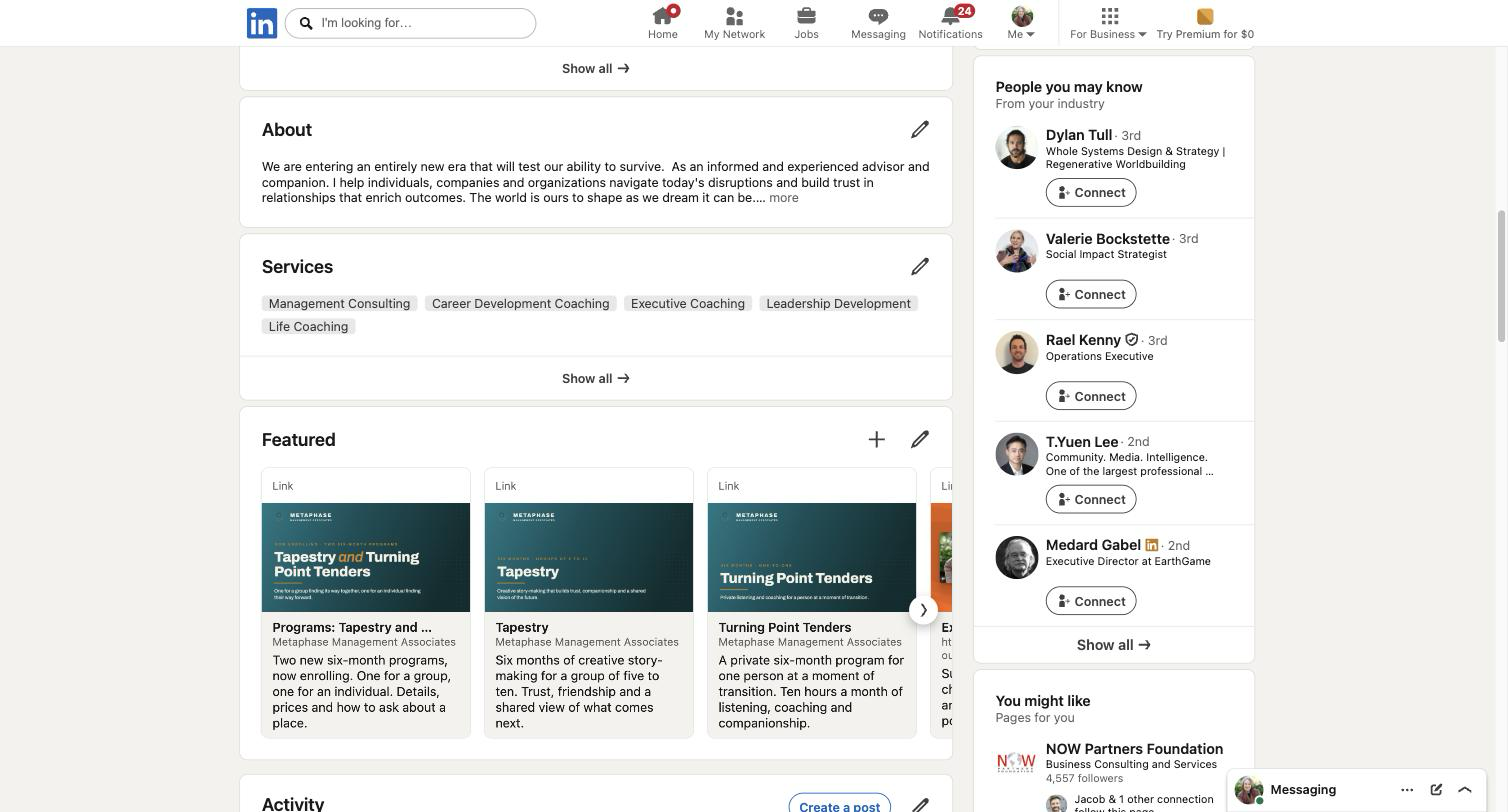
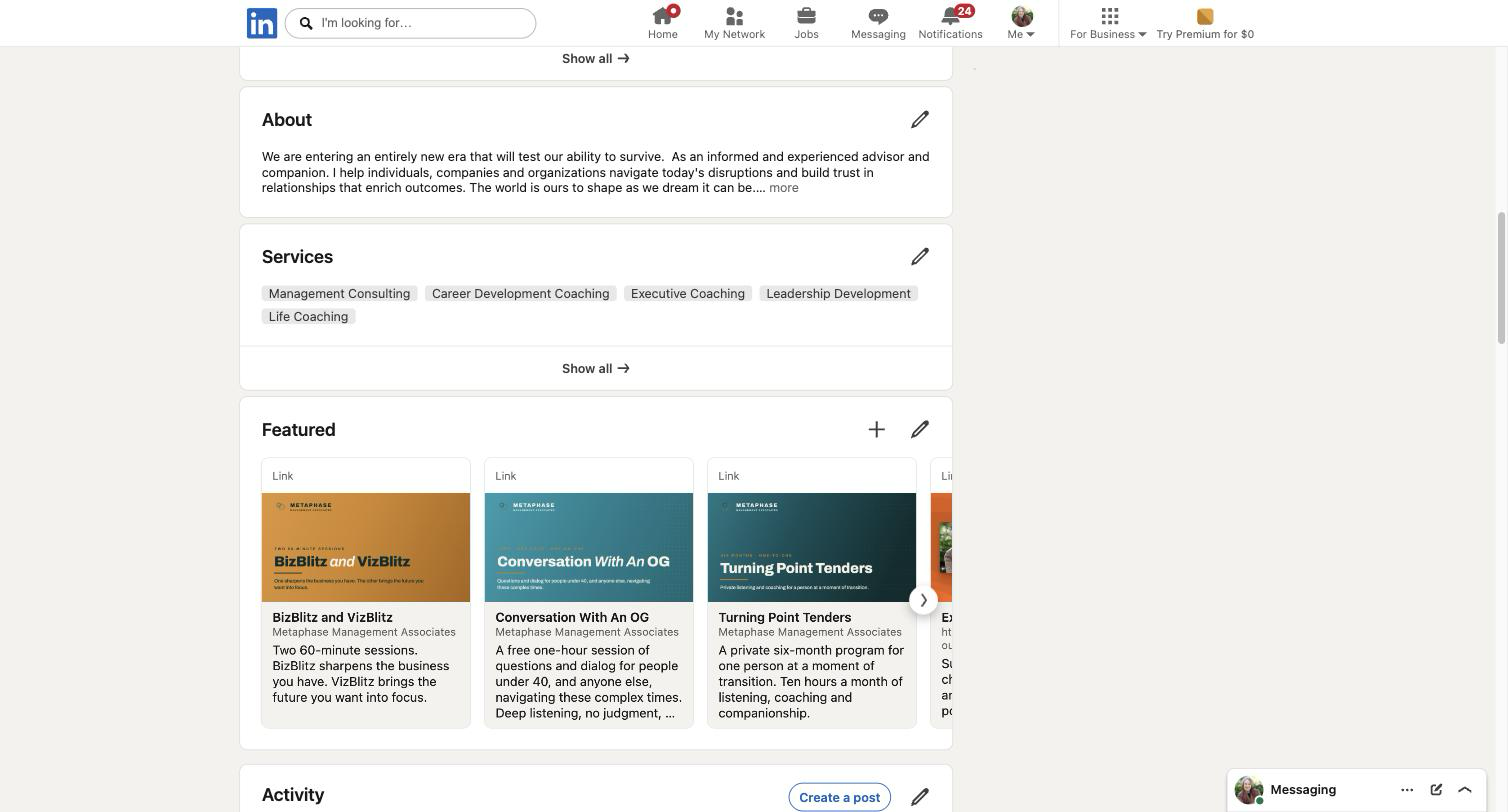
Featured now shows the Blitz sessions, the OG conversation and Turning Point Tenders
Susan did not want Tapestry or the combined Programs card. Those are gone; BizBlitz and
VizBlitz (gold) and Conversation With An OG (teal) join Turning Point Tenders (dark teal),
each linking to its page on the site. op-067's proposal and screenshot updated to match.

Claude-Session: https://claude.ai/code/session_01Cxp7yJqZ47NXDvdyGh6ARM

diff --git a/.scratch/presence/decisions.md b/.scratch/presence/decisions.md
@@ -147,23 +147,23 @@ Last extracted: 8ea23c5
 
 **What it touches.** assets/social/linkedin-banner-personal-dark.png, assets/social/linkedin-banner-personal-light.png, docs/research/linkedin-banner/, LinkedIn profile.
 
-## op-067 · Her programs are featured on her profile as link cards to the site
+## op-067 · Her offerings are featured on her profile as link cards to the site, one colour each
 - category: LinkedIn
 - status: proposed
 - image: docs/ssot/decisions/images/presence/op-067.png
-- caption: Featured on Susan's profile, 2026-09-14: Programs, Tapestry, Turning Point Tenders, then the Substack and the OG post.
+- caption: Featured on Susan's profile, 2026-09-14: BizBlitz and VizBlitz in gold, Conversation With An OG in teal, Turning Point Tenders in dark teal, then the Substack and the OG post.
 - screen: LinkedIn profile, Featured section
 - source: Susan via Lee 2026-09-14
 - work: done
 
-**Context.** Susan wants her programs on her profile the way the company page lists what Metaphase offers. A personal profile has no Products or Programs section; it has Featured (link, post, image and document cards near the top), Services (LinkedIn's fixed category list) and Projects under Accomplishments, which she rightly says is the wrong word. Featured link cards show a picture, a title and two lines of text and open the page on the site.
+**Context.** Susan wants her offerings on her profile the way the company page lists what Metaphase offers. A personal profile has no Products or Programs section; it has Featured (picture cards near the top), Services (LinkedIn's fixed category list) and Projects under Accomplishments, which she rightly says is the wrong word. Featured link cards show a picture, a title and two lines of text and open the page on the site. Her first pass had Tapestry and a combined Programs card; she asked for those to go and for Conversation With An OG and the two Blitz sessions instead, each in its own colour.
 
-**Question.** How do her programs appear on her personal profile?
+**Question.** How do her offerings appear on her personal profile?
 
-**Decision.** 1. Featured carries, in this order: the Programs page, Tapestry, Turning Point Tenders, Experience Matters (the Substack about page), and her Conversation With An OG post. 2. Each site link shows a branded card rendered from `docs/research/share-images/card.html`; the site now sets `og:image` on every page, with the Programs page and the two program services getting their own cards and everything else a site card. 3. The Services section keeps LinkedIn's categories; the programs are named in About and the headline, which stay Susan's copy (op-026).
+**Decision.** 1. Featured carries, in this order: BizBlitz and VizBlitz (gold), Conversation With An OG (teal), Turning Point Tenders (dark teal), Experience Matters (the Substack about page), and her Conversation With An OG post. 2. Each site link shows a branded card rendered from `docs/research/share-images/card.html` in that colour; the site sets `og:image` on every page, with these pages getting their own cards and everything else a site card. 3. Conversation With An OG, until now only a LinkedIn post, is a page on the site written from that post, free, 60 minutes. 4. `/blitz/` presents BizBlitz and VizBlitz together and links to both service pages. 5. Tapestry is not featured. 6. The Services section keeps LinkedIn's categories; About and the headline stay Susan's copy (op-026).
 
-**Why.** Featured is the only place on a personal profile that shows offerings as pictures near the top, and linking to the site sends readers to the full page, the flyer and the contact form.
+**Why.** Featured is the only place on a personal profile that shows offerings as pictures near the top, and linking to the site sends readers to the full page and the contact form. One colour per card makes three offerings read as three things at a glance.
 
-**What else was considered.** Projects under Accomplishments (wrong word, buried); a LinkedIn Services page (fixed categories, no program names); an image-only Featured card (no link).
+**What else was considered.** Projects under Accomplishments (wrong word, buried); a LinkedIn Services page (fixed categories, no program names); image-only Featured cards (no link); featuring the OG post alone (no branded picture, no page to send people to).
 
-**What it touches.** LinkedIn profile, assets/social/share-*.png, _config.yml defaults, pages/programs.html, _services/tapestry.md, _services/turning-point-tenders.md.
+**What it touches.** LinkedIn profile, assets/social/share-*.png, _config.yml defaults, _services/conversation-with-an-og.md, pages/blitz.html, _services/turning-point-tenders.md.
